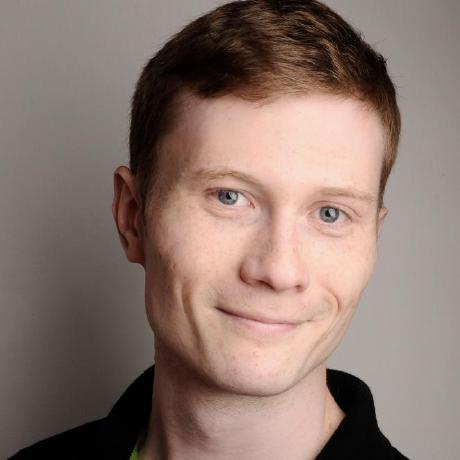
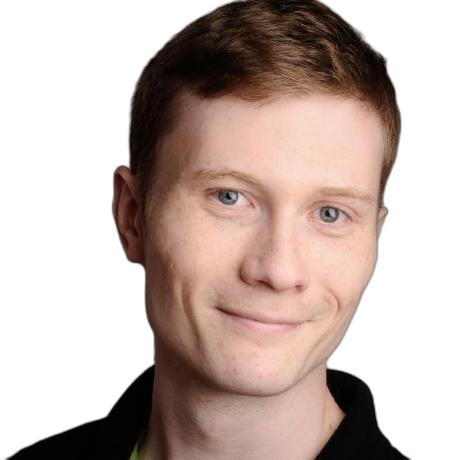
last cosmetic changes
README.md - done

diff --git a/README.md b/README.md
@@ -1,26 +1,20 @@
-# Team gear5
+<p align="center">
+    <img src="img/stick-shift.png" width="100" height="100">
+</p>
 
-## Project Description
-
-[Description](assignment.md)
-
----
-
-## Trello Board
-
-[gear5 Trello Board](https://trello.com/b/HF9T6NHr/gear5)
-
----
+# gear<font color="red">5</font> - Linux II Project
 
 ## Team Members
 
-| Name | Role | 📸 | GitHub Link |
-| --- | --- | :---: | --- |
-| Saman Perfat | Team Leader | <img src="img//Saman_Petfat.png" width=20%> | [Saman Perfat](https://github.com/SamanPetfat) |
-| Martin Alfredson | Team Member | <img src="img//Martin_Alfredson.png" width=20%> | [Martin Alfredson](https://github.com/maal2202)
-| Pavel Kostyuk | Team Member | <img src="img//Pavel_Kostyuk.png" width=20%> | [Pavel Kostyuk](https://github.com/PavelKostyuk) |
-| Fredrik Magnusson | Tech Lead | <img src="img//Fredrik_Magnusson.png" width=20%> | [Fredrik Magnusson](https://github.com/mindriddler) |
-| Alex Roman | Junior Developer | <img src="img//Alex_Roman.png" width=20%> | [Alex Roman](https://github.com/AlexRoman777) |
+| <img src="img/stick-shift.png" width="50" height="50"> | <img src="img/Saman_Petfat.png" width="50" height="50"> | <img src="img/Martin_Alfredson.png" width="50" height="50"> | <img src="img/Pavel_Kostyuk.png" width="50" height="50"> | <img src="img/Fredrik_Magnusson_no_bg.png" width="50" height="50"> | <img src="img/Alex_Roman.png" width="50" height="50"> |
+| :---: | :---: | :---: | :---: | :---: | :---: |
+| GitHub | [Saman Perfat](https://github.com/SamanPetfat) | [Martin Alfredson](https://github.com/maal2202) | [Pavel Kostyuk](https://github.com/PavelKostyuk) | [Fredrik Magnusson](https://github.com/mindriddler) | [Alex Roman](https://github.com/AlexRoman777) |
+
+---
+
+[Description](assignment.md)
+
+[gear5 Trello Board](https://trello.com/b/HF9T6NHr/gear5)
 
 ---
 
